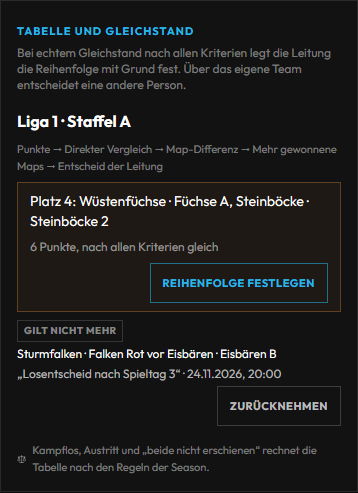
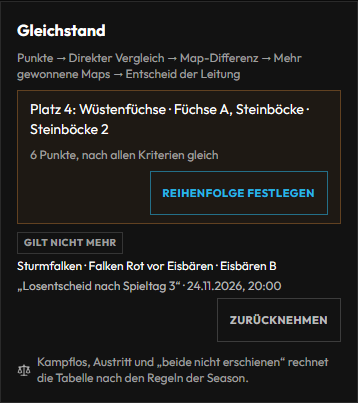
docs: Handbuch Liga - Spielplan, Spiele und Tabelle auf der Staffel-Seite (#2262)
liga.md 2.5 und 3.5: Tabelle und Gleichstand-Entscheid stehen auf der
Staffel-Seite, der Season-Reiter verlinkt je Staffel. Bild neu. LIGA.md zieht
nach.

diff --git a/docs/handbuch/liga.md b/docs/handbuch/liga.md
@@ -276,7 +276,7 @@ Turnierleitung), Sperrliste mit **Season konfigurieren** (lesen: jede Zuständig
 | **Spielbetrieb** | Modi der Season mit Maps, Mindestgröße, Ergebnisregeln, Serie (Best of, Teamgröße, Modus je Map, Map-Wiederholung), Fristen nach dem Spiel, Check-in (2.7b), Veto (2.7d), Vorfälle (2.7e) | `#spielbetrieb` |
 | **Termine** | Kalender, Standardtermin, Sperrzeiten, Antwortfrist, Terminregeln (2.7a), Erinnerungen (2.7f) | `#termine` |
 | **Anmeldung und Kader** | Selbstanmeldung (2.5a), Kader und Spielberechtigung (3.9), Plattform und Eingabegerät (2.7c), Eingang der Anmeldungen, Kaderübersicht (3.7) | `#anmeldung`, `#anmeldungen`, `#kader` |
-| **Tabelle** | Punkte, Gleichstand, Ausscheiden, Gleichstände der Staffeln (3.5) | `#tabelle` |
+| **Tabelle** | Punkte, Gleichstand, Ausscheiden; je Staffel **Tabelle öffnen** zur Staffel-Seite mit Tabelle und Gleichstand-Entscheid (3.5) | `#tabelle` |
 | **Proteste** | Eingang der Verfahren und ihre Fristen (3.4) | `#proteste` |
 | **Strafen** | verhängen, bestätigen, widerrufen, Einsprüche (3.4a) | `#strafen` |
 | **Regelwerk und Sperrliste** | Stand des Regelwerks mit Weg dorthin (2.11), Sperrliste (2.1a) | `#regelwerk`, `#sperrliste` |
@@ -461,10 +461,16 @@ Unter jedem Co-Team, das in einer Staffel spielt, zeigt **Spielberechtigung** di
 Liga-Verwaltung: Oben stehen die Brotkrumen **Liga › Season › Liga 1 · Staffel A** und der Stand. Im Reiter **Überblick** findest du den
 Liga-Ablauf, was noch fehlt, **Liga starten** bzw. den Status (mit denselben Rückfragen wie bisher), die Zahlen und die Wege zu Leitstand,
 Season und Ligaseite. Im Reiter **Teilnehmer** stehen die Co-Teams mit **Co-Team zuteilen**, **Entfernen**, **Austritt**,
-**Disqualifizieren**, **Kader**, aktiven Strafen und „Nachgemeldet ab Woche …“. Spielplan, Spiele und Tabelle kommen später dazu – bis
-dahin führen diese Ziele weiter in die Turnierverwaltung, und die Schritte unten gelten unverändert. Knöpfe gibt es nur mit der passenden
-Zuständigkeit: Zuteilen, Entfernen, Austritt und Disqualifizieren mit **Teams freigeben**, Status und **Liga starten** mit **Liga verwalten**
-(das gilt jetzt auch in der Turnierverwaltung).
+**Disqualifizieren**, **Kader** (mit „1 gesperrt“, „1 wartet auf Freigabe“ oder „1 ohne gültige ID“), aktiven Strafen und „Nachgemeldet ab
+Woche …“. Im Reiter **Spielplan** stehen die Spielwochen mit Frist und dem Termin je Partie samt Herkunft (vereinbart, Heimrecht,
+Standardzeit, von der Liga-Leitung); **ändern** setzt einen Termin (**Spiele betreuen**). Vor dem Start gibt es dort **Vorschau neu
+mischen** und **Spieltage neu auslosen** (**Season konfigurieren**), dazu immer **CSV Matchplan** und **PDF Spiele**. Im Reiter **Spiele und
+Ergebnisse** steht je Spielwoche jedes Spiel mit Stand, Ergebnis und Hinweisen zu Check-in, Veto, Vorfall und Verfahren; bedient wird das
+auf der Matchseite (**Zum Spiel**). Hier gibt es **Ergebnis eintragen** bzw. **korrigieren** und **Beide nicht erschienen** (**Ergebnisse
+korrigieren**, im eigenen Spiel trägt eine zweite Person ein). Der Reiter **Tabelle** zeigt die Tabelle mit Zonen, **PDF Tabelle** und den
+Gleichstand-Entscheid (3.5). Bis zur Umstellung bleibt auch die Turnierverwaltung nutzbar, die Schritte unten gelten unverändert. Knöpfe
+gibt es nur mit der passenden Zuständigkeit: Zuteilen, Entfernen, Austritt und Disqualifizieren mit **Teams freigeben**, Status und **Liga
+starten** mit **Liga verwalten** (das gilt jetzt auch in der Turnierverwaltung).
 
 1. Season-Seite, Reiter **Ligen und Staffeln** → bei der Staffel **Turnierverwaltung · Co-Teams zuteilen** → Reiter **Teilnehmer**.
 2. **Co-Team zuteilen** → Schritt 1: das **Hauptteam** wählen → Schritt 2: das **Co-Team** → **Zuteilen**.
@@ -1435,14 +1441,15 @@ Spalte **Maps** (gewonnen:verloren) gibt es am PC. App und TV zeigen dieselben P
 </tr>
 </table>
 
-**Entscheid der Leitung:** Admin → Liga → Season → Reiter **Tabelle** → **Tabelle und Gleichstand**. Je gestarteter Staffel stehen dort die
-geteilten Plätze. **Reihenfolge festlegen** → mit den Pfeilen sortieren → **Grund** (mindestens fünf Zeichen, steht
+**Entscheid der Leitung:** Admin → Liga → Season → Reiter **Tabelle** → bei der Staffel **Tabelle öffnen** (oder auf der Staffel-Seite der
+Reiter **Tabelle**). Unter der Tabelle mit Zonen und **PDF Tabelle** stehen im Feld **Gleichstand** die geteilten Plätze. Die Season selbst
+hält nur die Regeln (Punkte, Gleichstand, Ausscheiden). **Reihenfolge festlegen** → mit den Pfeilen sortieren → **Grund** (mindestens fünf Zeichen, steht
 öffentlich an der Tabelle: „Platz durch Entscheid der Leitung: …“) → **Festlegen**. Das geht nur bei echtem Gleichstand und
 nur für alle Teams auf diesem Platz; über das eigene Team entscheidet eine andere Person. Recht: **Ergebnisse
 korrigieren**. Ändert ein späteres Ergebnis den Gleichstand, gilt der Entscheid nicht mehr (Hinweis **Gilt nicht mehr**)
 und bleibt zur Nachvollziehbarkeit stehen; **Zurücknehmen** löscht ihn mit Grund.
 
-<img src="../assets/liga/liga-gleichstand-entscheid-handy.png" alt="Season-Verwaltung am Handy, Feld Tabelle und Gleichstand: Platz 4 geteilt mit Knopf Reihenfolge festlegen, darunter ein älterer Entscheid mit Gilt nicht mehr und Zurücknehmen" width="300">
+<img src="../assets/liga/liga-gleichstand-entscheid-handy.png" alt="Staffel-Seite am Handy, Reiter Tabelle, Feld Gleichstand: Platz 4 geteilt mit dem Knopf Reihenfolge festlegen, darunter ein älterer Entscheid mit Gilt nicht mehr und Zurücknehmen" width="300">
 
 **Austritt, Auflösung, Disqualifikation:** In der Teilnehmerliste der Staffel **Austritt eintragen** bzw.
 **Disqualifizieren** (eine Auflösung tragt ihr als Austritt mit Grund „Team aufgelöst“ ein). Mit der Vorgabe neuer

diff --git a/docs/LIGA.md b/docs/LIGA.md
@@ -3513,7 +3513,7 @@ trägt, steht in `frontend/src/lib/seasonTabs.js` (`TAB_FIELDS`, `TAB_PAYLOAD_KE
 | Spielbetrieb | `#spielbetrieb`, `#modi`, `#mindestgroesse`, `#ergebnisregeln`, `#serie`, `#veto`, `#vorfaelle` | Modi der Season anhaken = Modi mit Maps im Pool, je Modus Maps und Bedarf; Map sperren, Versionen; Mindestgröße; Ergebnisregeln der angehakten Modi; Serie; Veto (D.3, #1618); Vorfälle und Pausen (D.5, #1619); Fristen nach dem Spiel | `best_of`, `team_size`, `game_mode_order`, `map_repeat`, `result_confirm_hours`, `lineup_amend_hours`, `map_break_after`, `map_break_minutes`, `incident_answer_minutes`, `incident_quota_per_map`, `clarification_mode`; Pool, Mindestgröße, Ergebnisregeln und Veto eigene Knöpfe |
 | Termine | `#termine`, `#kalender`, `#terminregeln`, `#checkin` | Kalender, Sperrzeiten, Antwortfrist, Terminregeln (D.1), Check-in-Regeln (D.2, #1652) | Kalenderfelder, `blocked_periods`, `match_schedule_response_hours`; Terminregeln und Check-in eigene Knöpfe |
 | Anmeldung und Kader | `#anmeldung`, `#selbstanmeldung`, `#spielberechtigung`, `#plattform`, `#anmeldungen`, `#kader` | Selbstanmeldung (B.4), Kader und Spielberechtigung (B.3, mit Mindestkader), Plattform und Eingabegerät (#2270), Eingang, Kaderübersicht | Felder von B.3/B.4, `min_squad_size`, `registration_deadline` (nur ohne Anmeldefenster sichtbar), `platform_field`, `allowed_platforms`, `crossplay`, `input_device` |
-| Tabelle | `#tabelle`, `#punkte`, `#gleichstand` | Punkte, Gleichstand, Ausscheiden (E.1), Gleichstände der Staffeln | `scoring_rules` |
+| Tabelle | `#tabelle`, `#punkte`, `#gleichstand` | Punkte, Gleichstand, Ausscheiden (E.1); je Staffel „Tabelle öffnen“ – Tabelle und Gleichstand-Entscheid stehen auf der Staffel-Seite (#2262) | `scoring_rules` |
 | Regelwerk und Sperrliste | `#regelwerk`, `#sperrliste` | Stand des Regelwerks (B.2) mit Weg dorthin, Sperrliste (C.4) | Sperrliste eigener Knopf |
 | Ligen und Staffeln | `#ligen`, `#staffeln`, `#uebertragen` | Liga N, Staffeln, Staffelgröße, Vorgaben übertragen | `max_staffel_size` |
 
